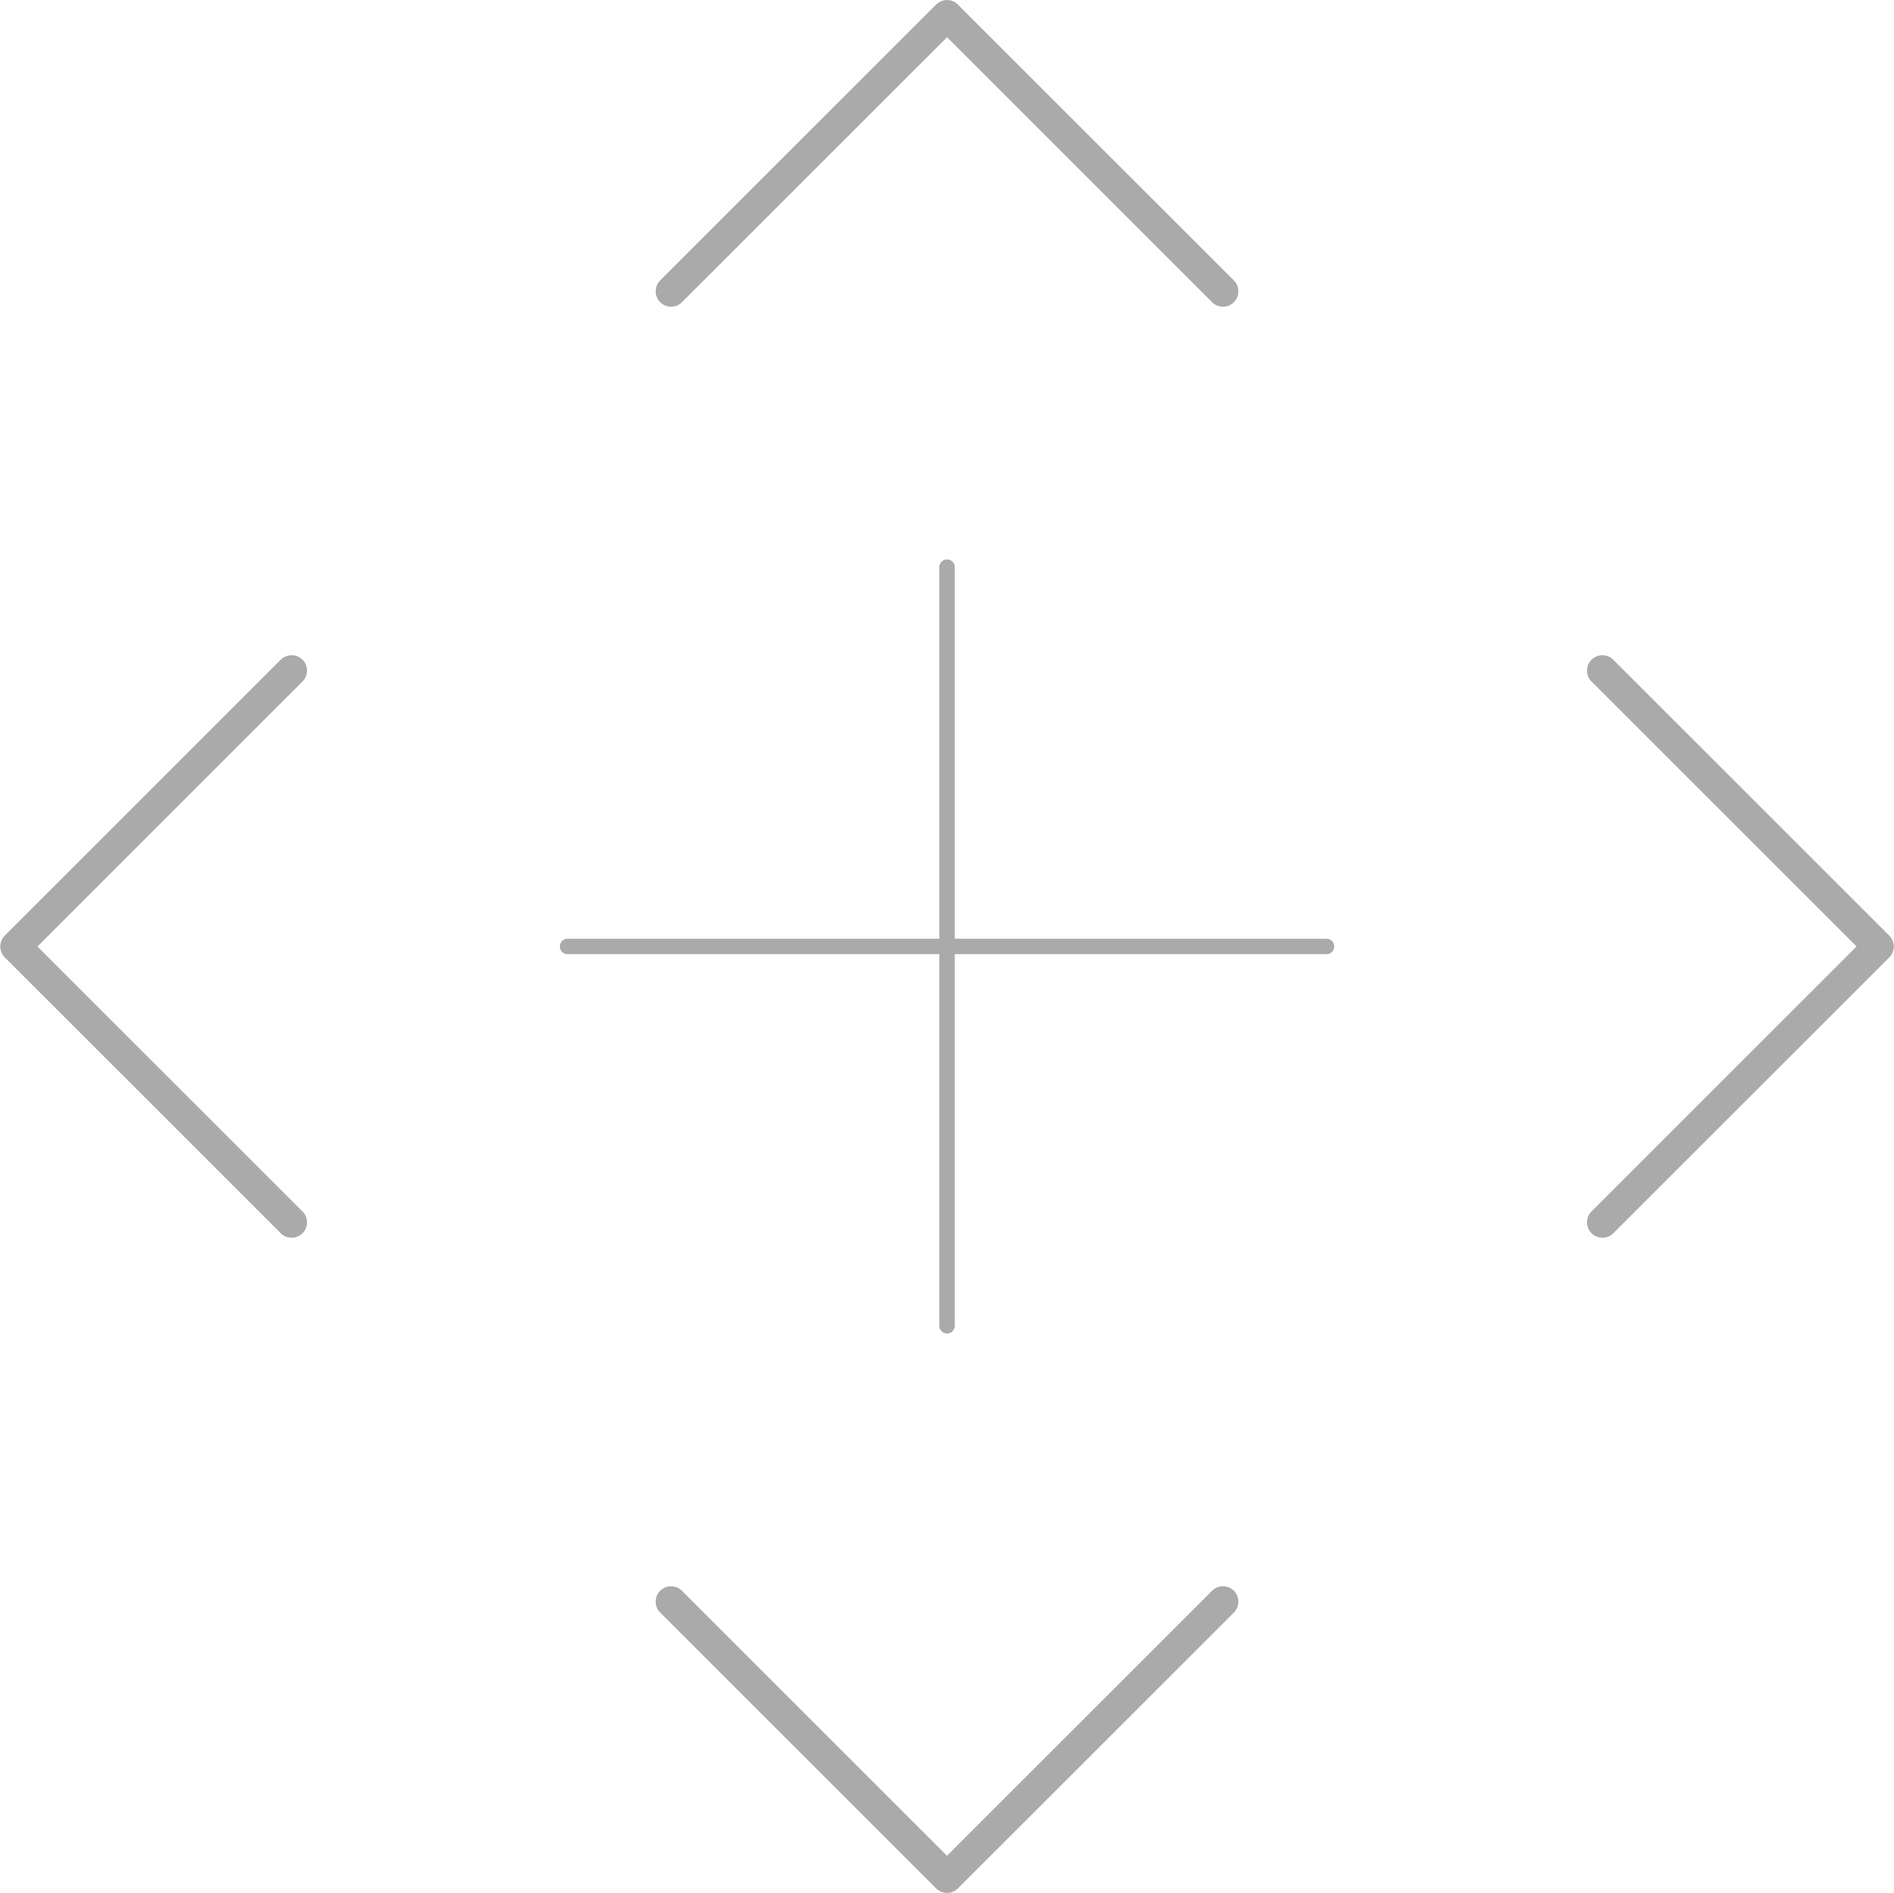
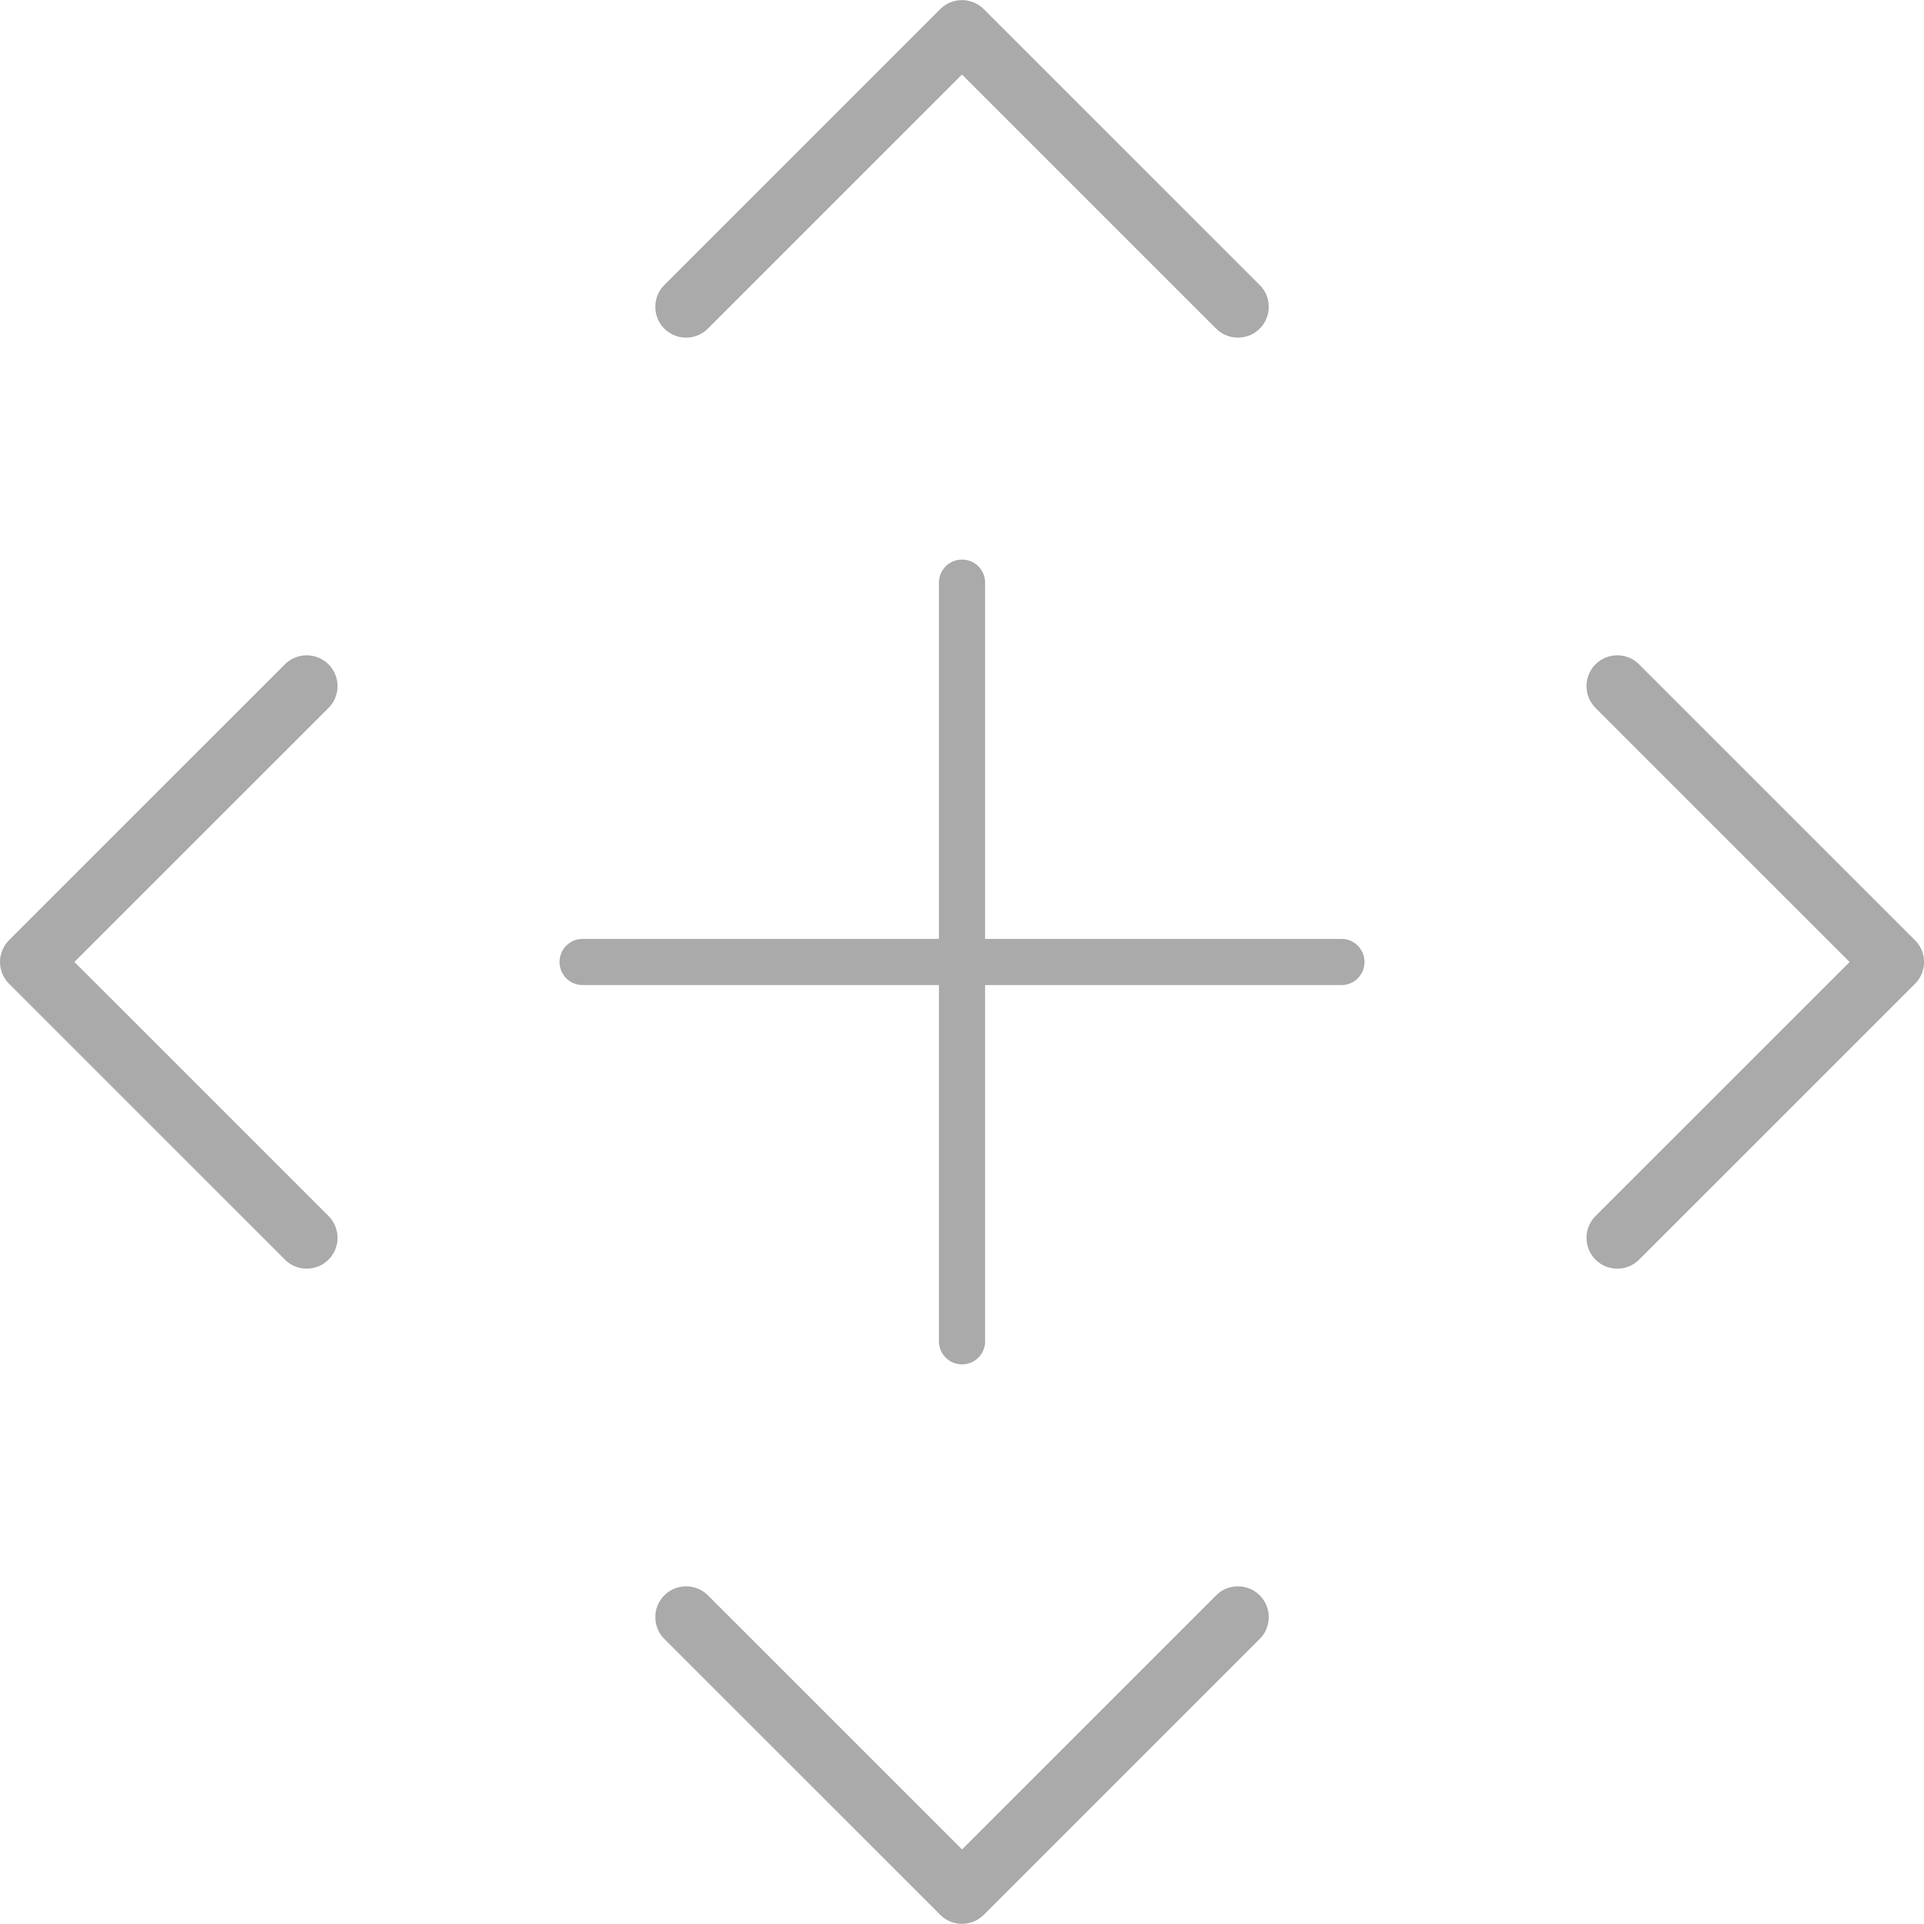
drag to explore text

diff --git a/berzsak/src/app/components/project/project.component.css b/berzsak/src/app/components/project/project.component.css
@@ -70,20 +70,56 @@
   transition: transform 0.2s;
 }
 
-.icon-light {
+.drag-to-explore {
+  position: fixed;
+  bottom: 15px;
+  left: 50%;
+  transform: translateX(-50%);
+  z-index: 2000;
+  width: 100px;
+  display: flex;
+  justify-content: center;
+  align-items: center;
+  gap: 7px;
+  padding: 5px 5px;
+  border-radius: 6px;
+  border: 0.1rem solid var(--primary-contrast);
+  background-color: var(--background);
+  transition: background 0.3s, transform 0.2s;
+}
+
+.drag-to-explore .drag-text {
+  display: flex;
+  justify-content: center;
+  color: var(--font_color);
+  font-size: 0.6rem;
+  font-weight: 300;
+}
+
+.drag-icon-dark,
+.drag-icon-light {
+  width: 20px !important;
+  height: 20px !important;
+}
+
+.icon-light,
+.drag-icon-light {
   display: block;
 }
 
-.icon-dark {
+.icon-dark,
+.drag-icon-dark {
   display: none;
 }
 
 .container.dark-mode {
-  .icon-light {
+  .icon-light,
+  .drag-icon-light {
     display: none;
   }
 
-  .icon-dark {
+  .icon-dark,
+  .drag-icon-dark {
     display: block;
   }
 }

diff --git a/berzsak/src/app/components/project/project.component.html b/berzsak/src/app/components/project/project.component.html
@@ -6,11 +6,18 @@
     <button class="brand-name-button" [class.exp-view]="view.status === ViewStatus.EXPERIENCE" (click)="window.location.href = '/index.html'">BERZSAK.</button>
   </div>
 
+  <div class="drag-to-explore" *ngIf="view.status === ViewStatus.EXPERIENCE" [hidden]="selectedProject">
+    <span class="view-icon">
+      <img class="drag-icon-light" src="/view-icon/drag-light.png" alt="drag icon">
+      <img class="drag-icon-dark" src="/view-icon/drag-dark.png" alt="drag icon">
+    </span>
+    <span class="drag-text">drag to explore</span>
+  </div>
+
   <!-- Grid/Experience button -->
   <div class="view-button" [hidden]="selectedProject" [class.exp-view]="view.status === ViewStatus.EXPERIENCE">
     <button class="view-btn" (click)="viewChange()">
       <span class="view-icon">
-        <!-- use a grid/list icon based on status -->
         <img class="icon-light" src="/view-icon/grid-light.png" alt="grid icon">
         <img class="icon-dark" src="/view-icon/grid-dark.png" alt="grid icon">
       </span>

diff --git a/berzsak/src/app/components/project/project.component.ts b/berzsak/src/app/components/project/project.component.ts
@@ -74,6 +74,7 @@ export class ProjectComponent implements OnInit, AfterViewInit {
   // Theme properties
   isDarkMode: boolean = false;
   themeIcon: string = '/light-bulb/bulb-off.png';
+  dragImage: string = '/view-icon/drag-light.png';
 
   constructor(private projectService: ProjectService,
               private dragScrollService: DragScrollService,
